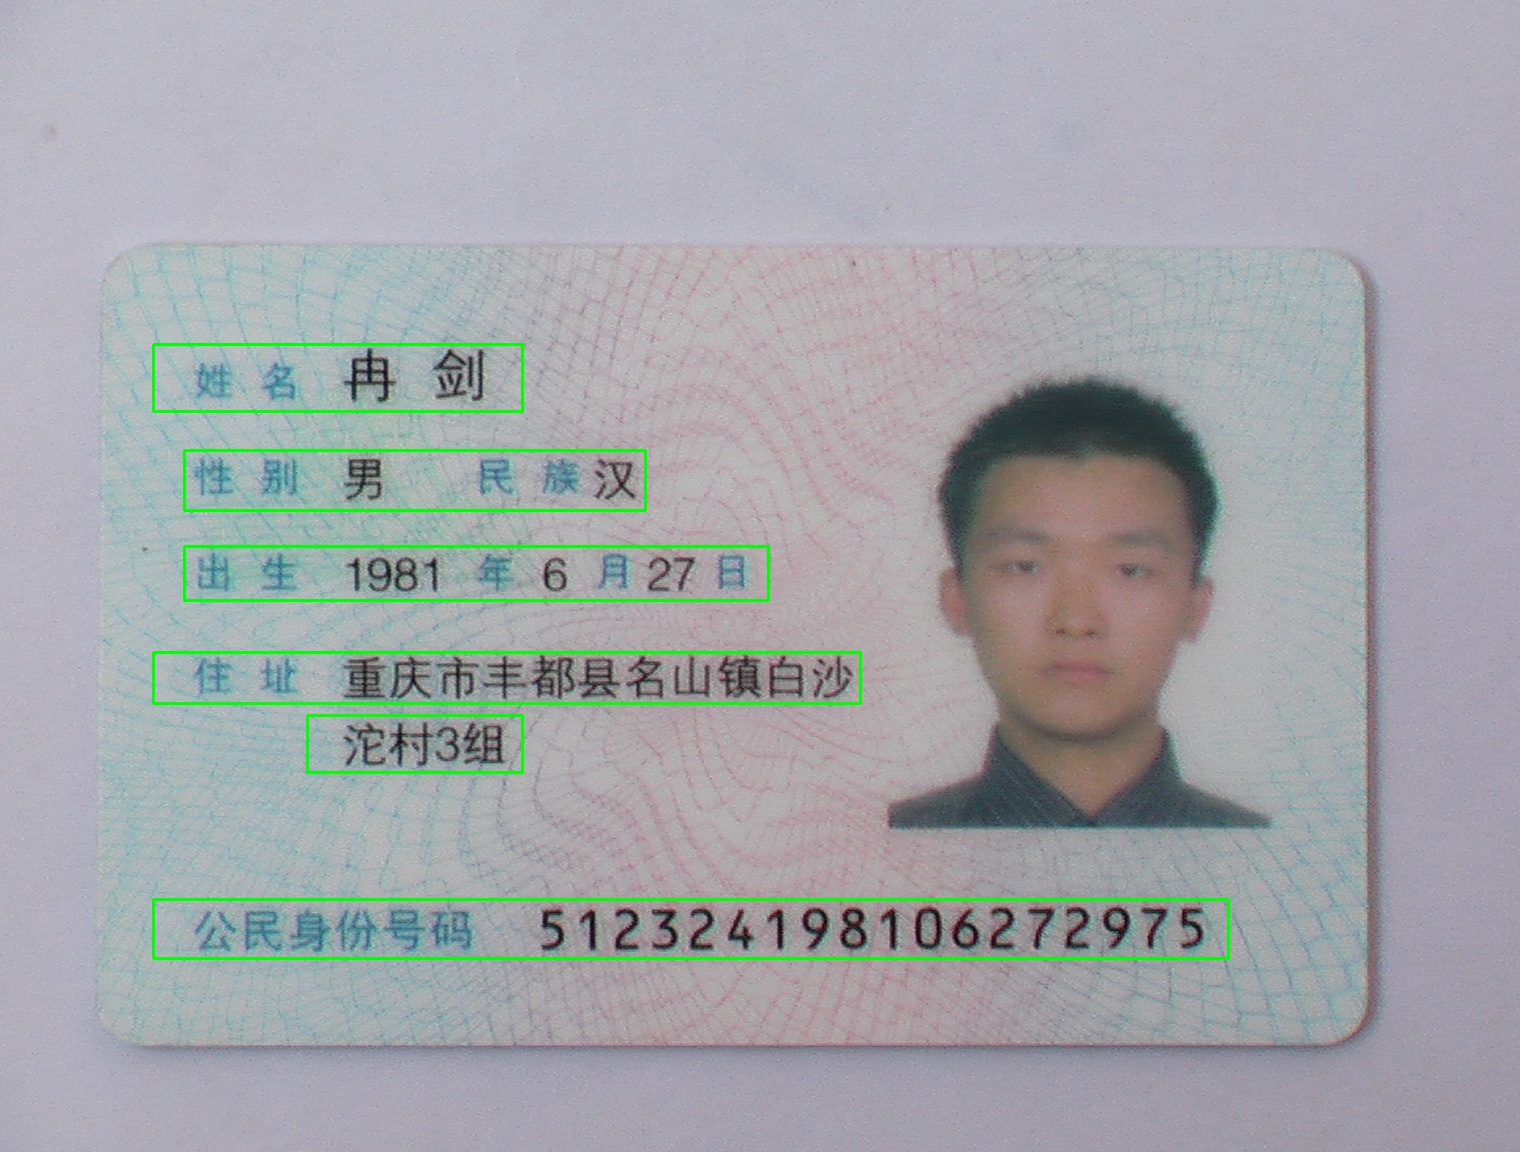
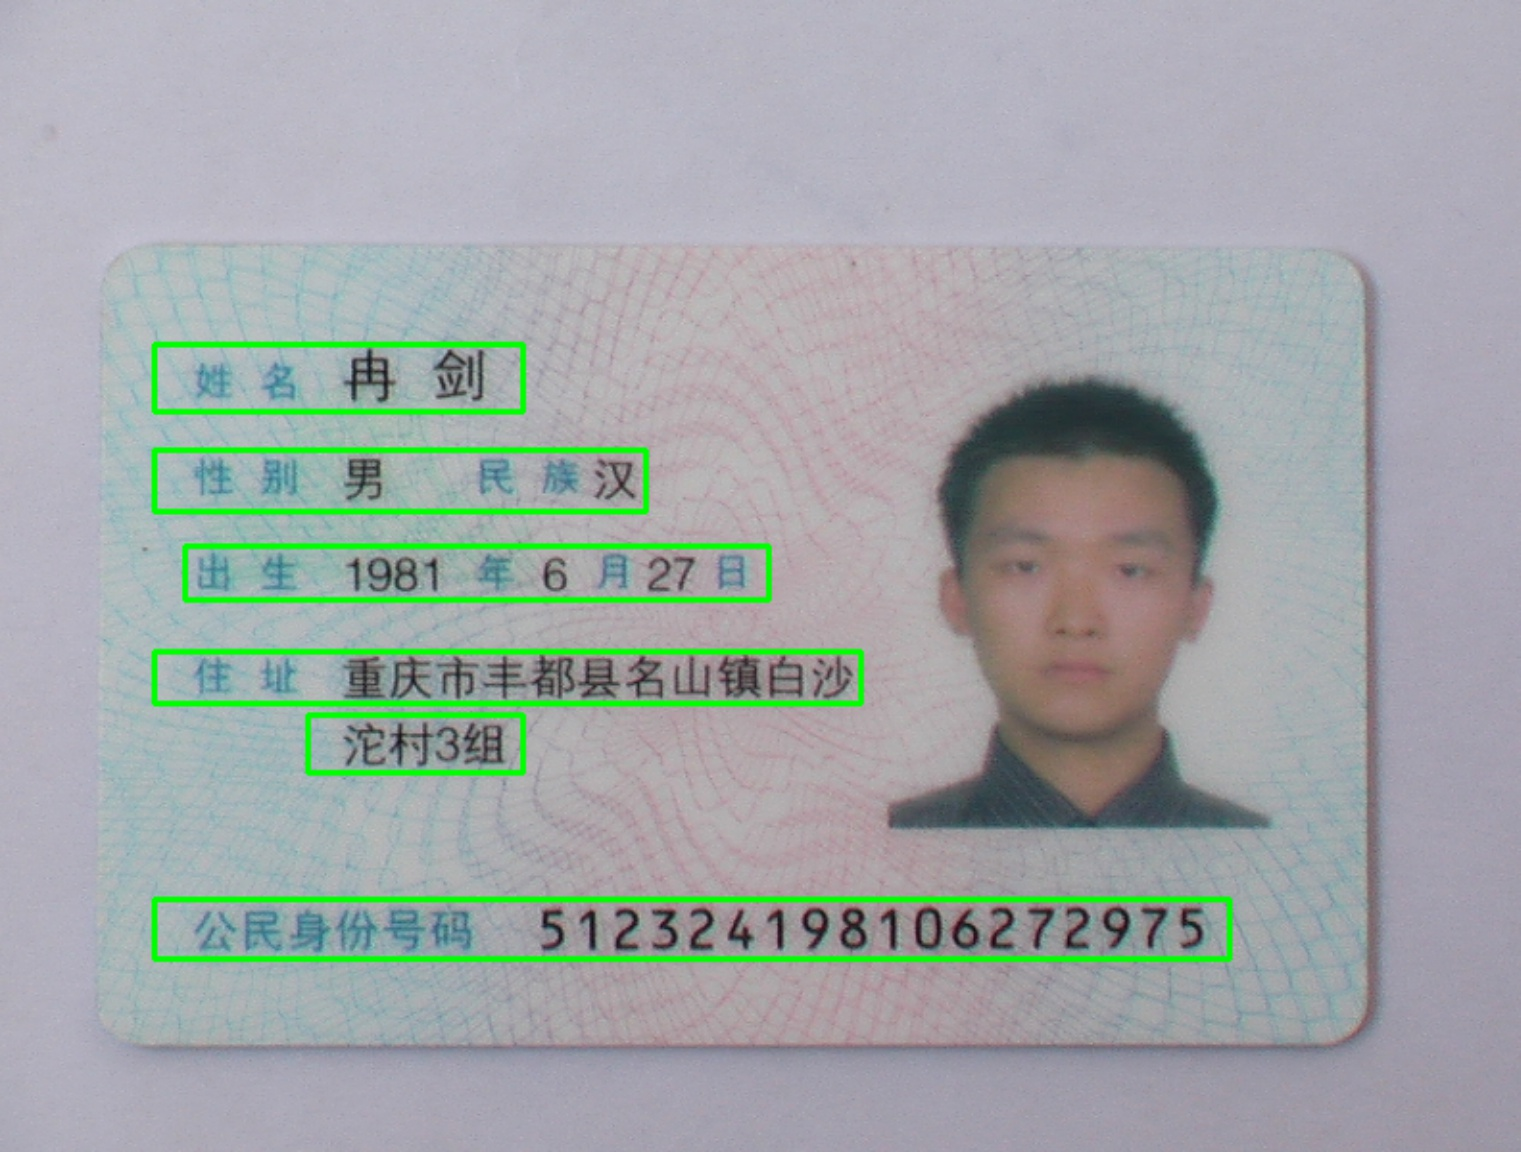
resize img before testing

diff --git a/ctpn/demo.py b/ctpn/demo.py
@@ -22,20 +22,33 @@ def connect_proposal(text_proposals, scores, im_size):
     line = cp.get_text_lines(text_proposals, scores, im_size)
     return line
 
-def save_results(image_name,im,line,thresh):
+def save_results(image_name,im,im_scale,line,thresh):
     inds=np.where(line[:,-1]>=thresh)[0]
+    image_name=image_name.split('/')[-1]
     if len(inds)==0:
+        im = cv2.resize(im, None, None, fx=1.0/im_scale, fy=1.0/im_scale, interpolation=cv2.INTER_LINEAR)
+        cv2.imwrite(os.path.join("data/results",image_name),im)
         return 
 
     for i in inds:
         bbox=line[i,:4]
         score=line[i,-1]
         cv2.rectangle(im,(bbox[0],bbox[1]),(bbox[2],bbox[3]),color=(0,255,0),thickness=2)
-    image_name=image_name.split('/')[-1]
+    im = cv2.resize(im, None, None, fx=1.0/im_scale, fy=1.0/im_scale, interpolation=cv2.INTER_LINEAR)
     cv2.imwrite(os.path.join("data/results",image_name),im)
 
 
-def check_img(im):
+def check_img(img):
+    img_size = img.shape
+    im_size_min = np.min(img_size[0:2])
+    im_size_max = np.max(img_size[0:2])
+
+    im_scale = float(600) / float(im_size_min)
+    if np.round(im_scale * im_size_max) > 1200:
+        im_scale = float(1200) / float(im_size_max)
+    re_im = cv2.resize(img, None, None, fx=im_scale, fy=im_scale, interpolation=cv2.INTER_LINEAR)
+    return re_im, im_scale
+    '''
     im_size = im.shape
     if max(im_size[0:2]) < 600:
         img = np.zeros((600, 600, 3), dtype=np.uint8)
@@ -47,11 +60,12 @@ def check_img(im):
         return img
     else:
         return im
+    '''
 
 
 def ctpn(sess, net, image_name):
     img = cv2.imread(image_name)
-    im = check_img(img)
+    im, im_scale = check_img(img)
     timer = Timer()
     timer.tic()
     scores, boxes = test_ctpn(sess, net, im)
@@ -69,7 +83,7 @@ def ctpn(sess, net, image_name):
     keep = np.where(dets[:, 4] >= 0.7)[0]
     dets = dets[keep, :]
     line = connect_proposal(dets[:, 0:4], dets[:, 4], im.shape)
-    save_results(image_name, im, line,thresh=0.9)
+    save_results(image_name, im,im_scale, line,thresh=0.9)
 
 
 if __name__ == '__main__':
